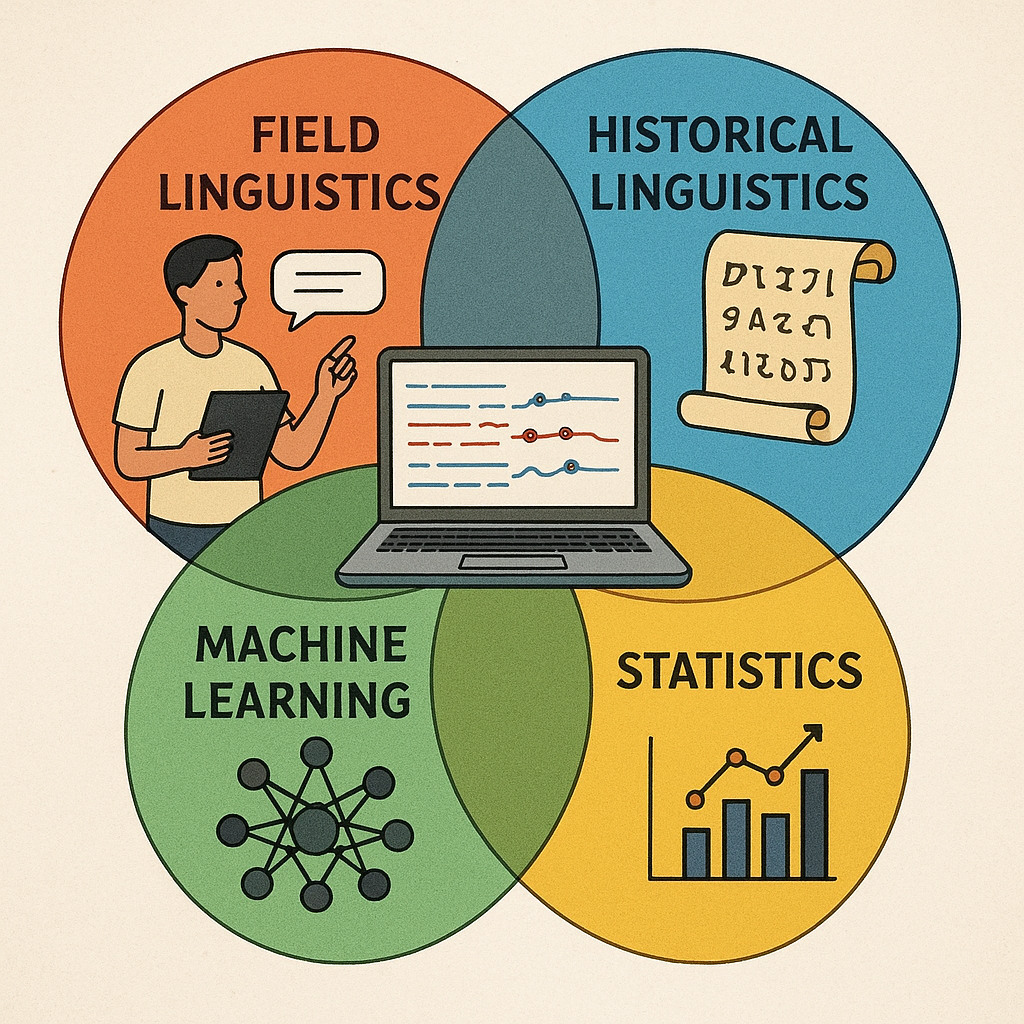
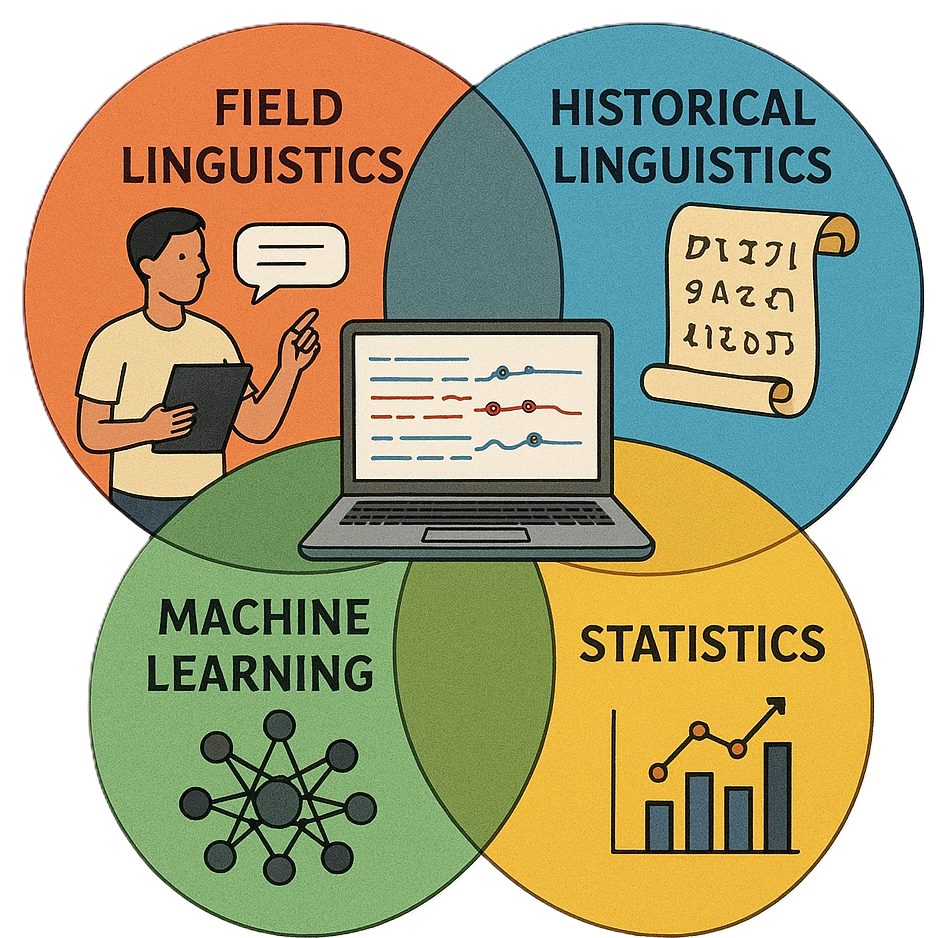
homepage updated

diff --git a/style.css b/style.css
@@ -18,6 +18,7 @@ body{
   line-height:1.5;
   -webkit-font-smoothing:antialiased;
   -moz-osx-font-smoothing:grayscale;
+  padding-top: 80px; /* Added to account for fixed header height */
 }
 
 /* accessible skip link */
@@ -46,6 +47,10 @@ body{
   background: var(--header-bg);
   color: #fff;
   padding: 18px 0;
+  position: fixed;
+  top: 0;
+  width: 100%;
+  z-index: 1000;
 }
 .header-inner{
   max-width: var(--max-width);
@@ -211,14 +216,20 @@ h2{font-size:1.05rem;margin-top:0}
 .research-focus {
   background: var(--bg);
   border-radius: var(--radius);
-  padding: 24px;
+  padding: 24px; /* Matched hero section padding */
   box-shadow: 0 6px 18px rgba(20,20,20,0.06);
   margin-top: 28px;
+  text-align: center; /* Center content within the section */
 }
 .research-focus img {
-  max-width: 100%;
+  max-width: 40%; /* Control image size */
   height: auto;
-  border-radius: var(--radius);
+  border-radius: 15px; /* More rounded edges */
+  background-color: var(--bg); /* White background */
+  padding: 10px; /* Padding around the image */
+  box-shadow: 0 2px 8px rgba(20,20,20,0.04); /* Subtle shadow */
+  display: block; /* For margin auto to work */
+  margin: 20px auto 0 auto; /* Center the image and add top margin */
 }
 
 /* education */
